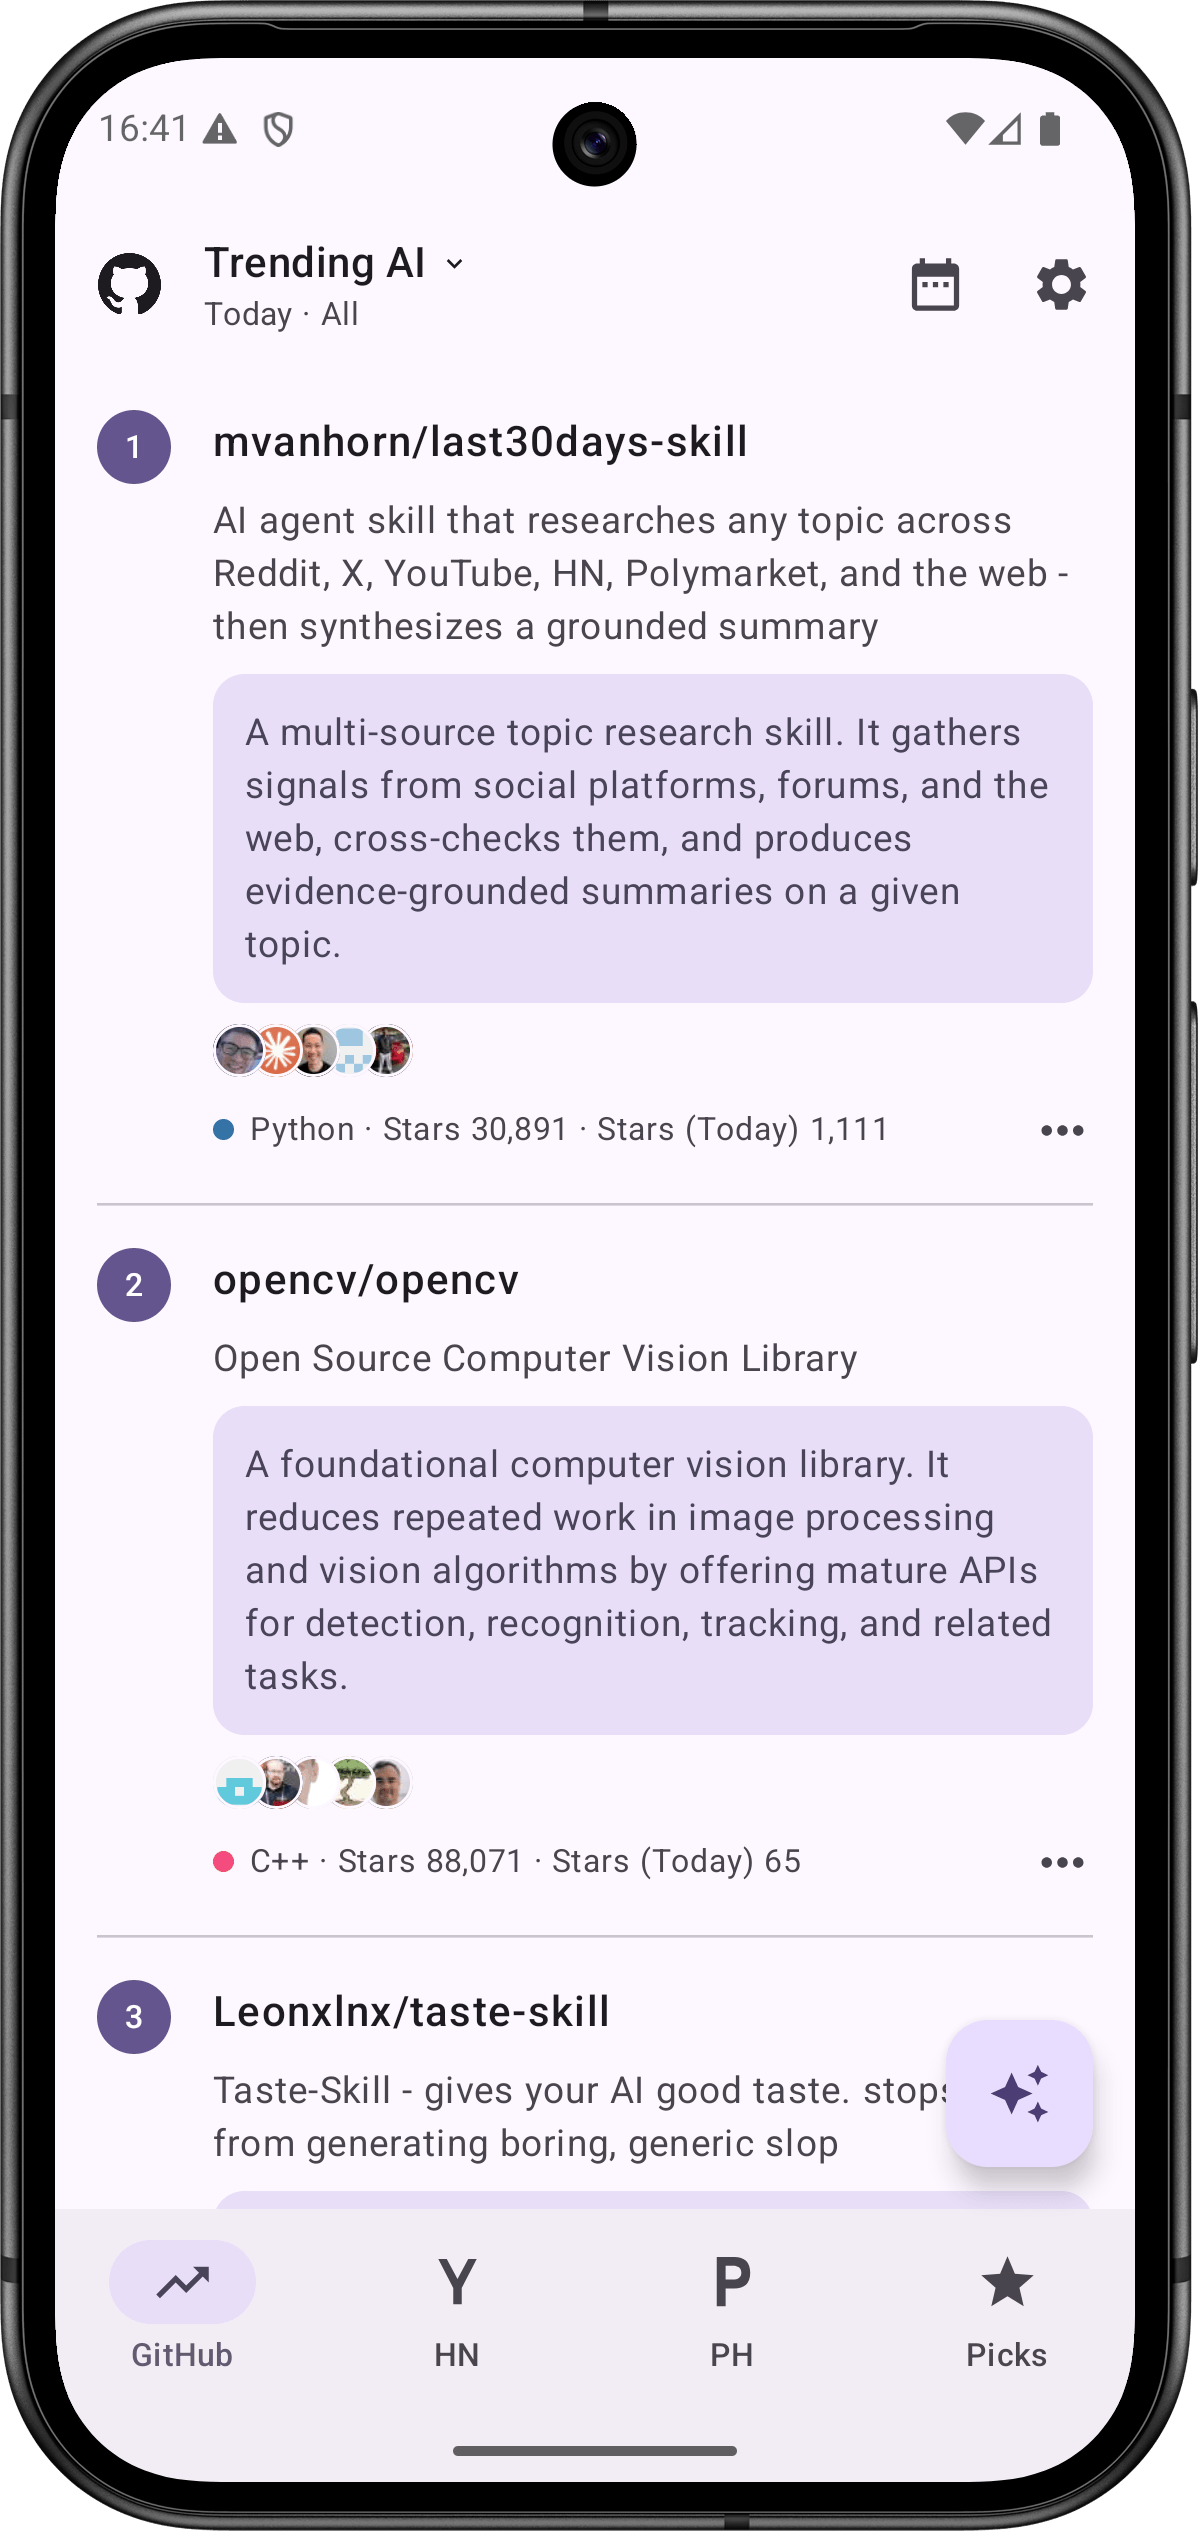
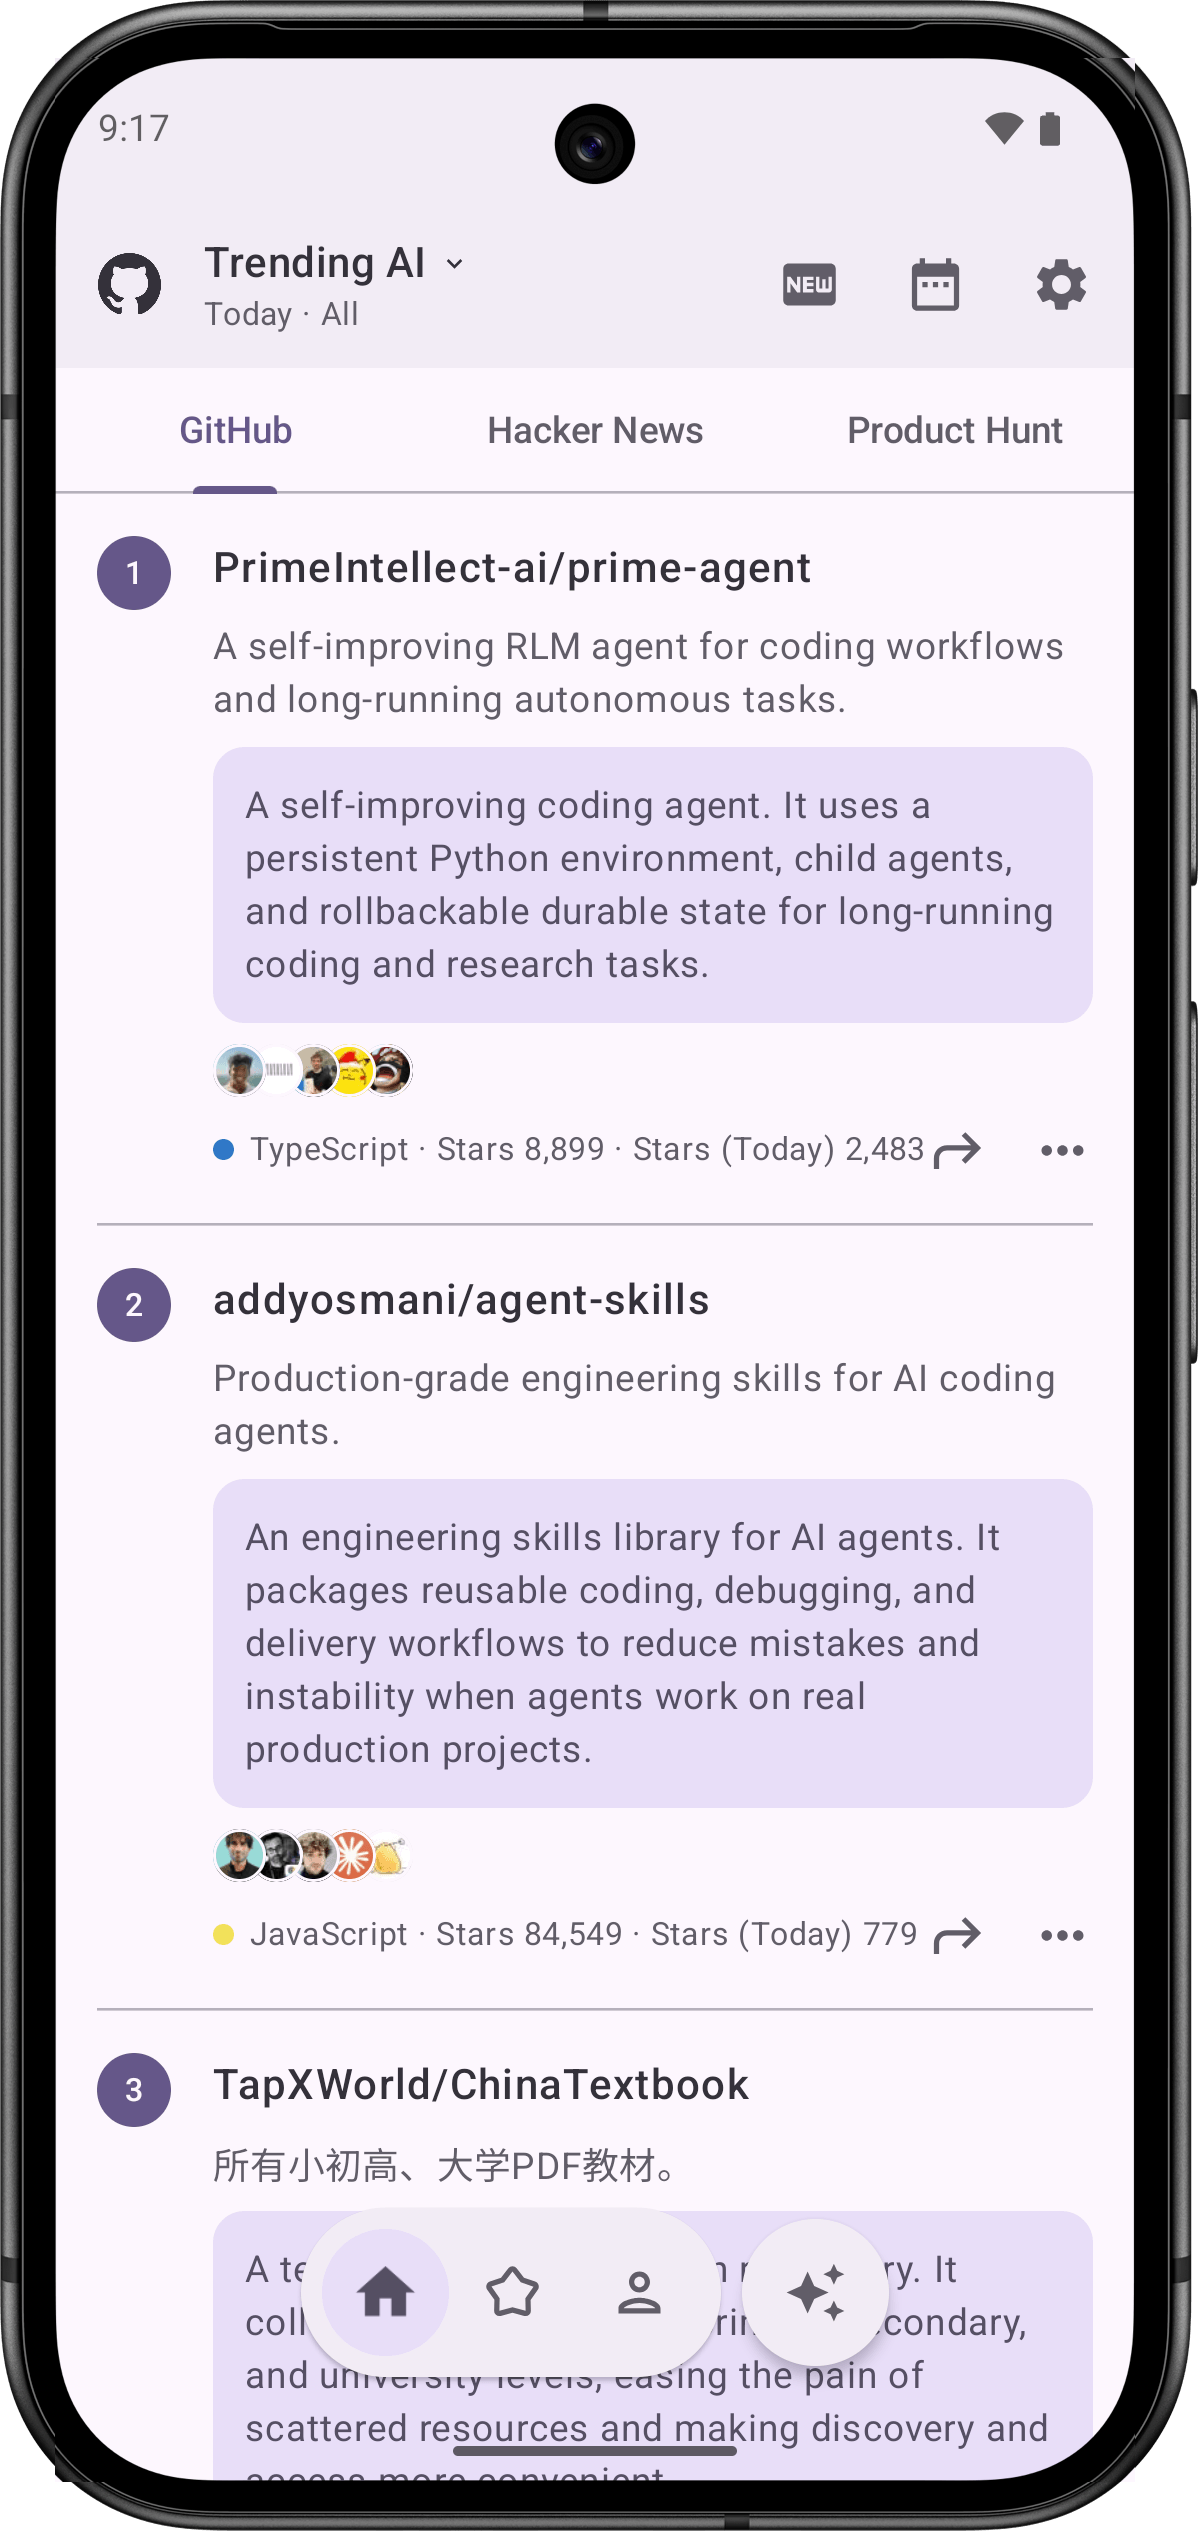
chore(assets): UI 改版后商店图与截图全量更新
- fastlane 商店图重排为 6 场景（GitHub 榜 / PH 多图轮播 / Picks / HN 解读 / AI 对话 / 外观主题），en-US 与 zh-CN 双语
- README 截图同步更新，旧图归档 v2/；平板图更新 5 张（外观页替代旧设置页）
- 新增 scripts/frame-screenshot.py：模拟器裸截图命令行套 Pixel 官方外壳，替代 Android Studio 手动截图

Claude-Session: https://claude.ai/code/session_01MCKx5QajXRCKSHvuw6FzN9

diff --git a/scripts/frame-screenshot.py b/scripts/frame-screenshot.py
@@ -1,0 +1,59 @@
+#!/usr/bin/env python3
+"""给模拟器裸截图套 Android Studio 官方设备外壳（等效 AS「带外壳截图」按钮）。
+
+用法:
+    python3 scripts/frame-screenshot.py <裸截图.png ...> [-d pixel_9|pixel_tablet] [-o 输出目录]
+
+裸截图分辨率必须与设备一致（pixel_9: 1080x2424, pixel_tablet: 2560x1600），
+输出与 Android Studio 手动截图同规格（pixel_9: 1198x2531, pixel_tablet: 2798x1837）。
+合成方式：机身 back.webp 打底 → 方形贴入截图 → 叠 mask.webp 前景（圆角边缘 + 挖孔摄像头）。
+依赖：Pillow；外壳素材来自本机 Android Studio 安装目录。
+"""
+
+import argparse
+import sys
+from pathlib import Path
+
+from PIL import Image
+
+ART_ROOT = Path(
+    "/Applications/Android Studio.app/Contents/plugins/android/resources/device-art-resources"
+)
+
+# 屏幕在机身上的偏移，取自各设备 device-art 的 layout 描述文件
+DEVICES = {
+    "pixel_9": {"screen": (1080, 2424), "offset": (55, 58)},
+    "pixel_tablet": {"screen": (2560, 1600), "offset": (119, 117)},
+}
+
+
+def frame(shot_path: Path, device: str, out_dir: Path) -> Path:
+    spec = DEVICES[device]
+    art = ART_ROOT / device
+    shot = Image.open(shot_path).convert("RGBA")
+    if shot.size != spec["screen"]:
+        raise SystemExit(f"{shot_path.name}: 分辨率 {shot.size} 与 {device} 屏幕 {spec['screen']} 不符")
+    back = Image.open(art / "back.webp").convert("RGBA")
+    mask = Image.open(art / "mask.webp").convert("RGBA")
+    back.paste(shot, spec["offset"])
+    back.alpha_composite(mask, spec["offset"])
+    out = out_dir / shot_path.name
+    back.save(out)
+    return out
+
+
+def main() -> None:
+    ap = argparse.ArgumentParser(description=__doc__)
+    ap.add_argument("shots", nargs="+", type=Path)
+    ap.add_argument("-d", "--device", choices=DEVICES, default="pixel_9")
+    ap.add_argument("-o", "--out", type=Path, default=Path("framed"))
+    args = ap.parse_args()
+
+    args.out.mkdir(parents=True, exist_ok=True)
+    for shot in args.shots:
+        out = frame(shot, args.device, args.out)
+        print(f"framed: {out}")
+
+
+if __name__ == "__main__":
+    main()
